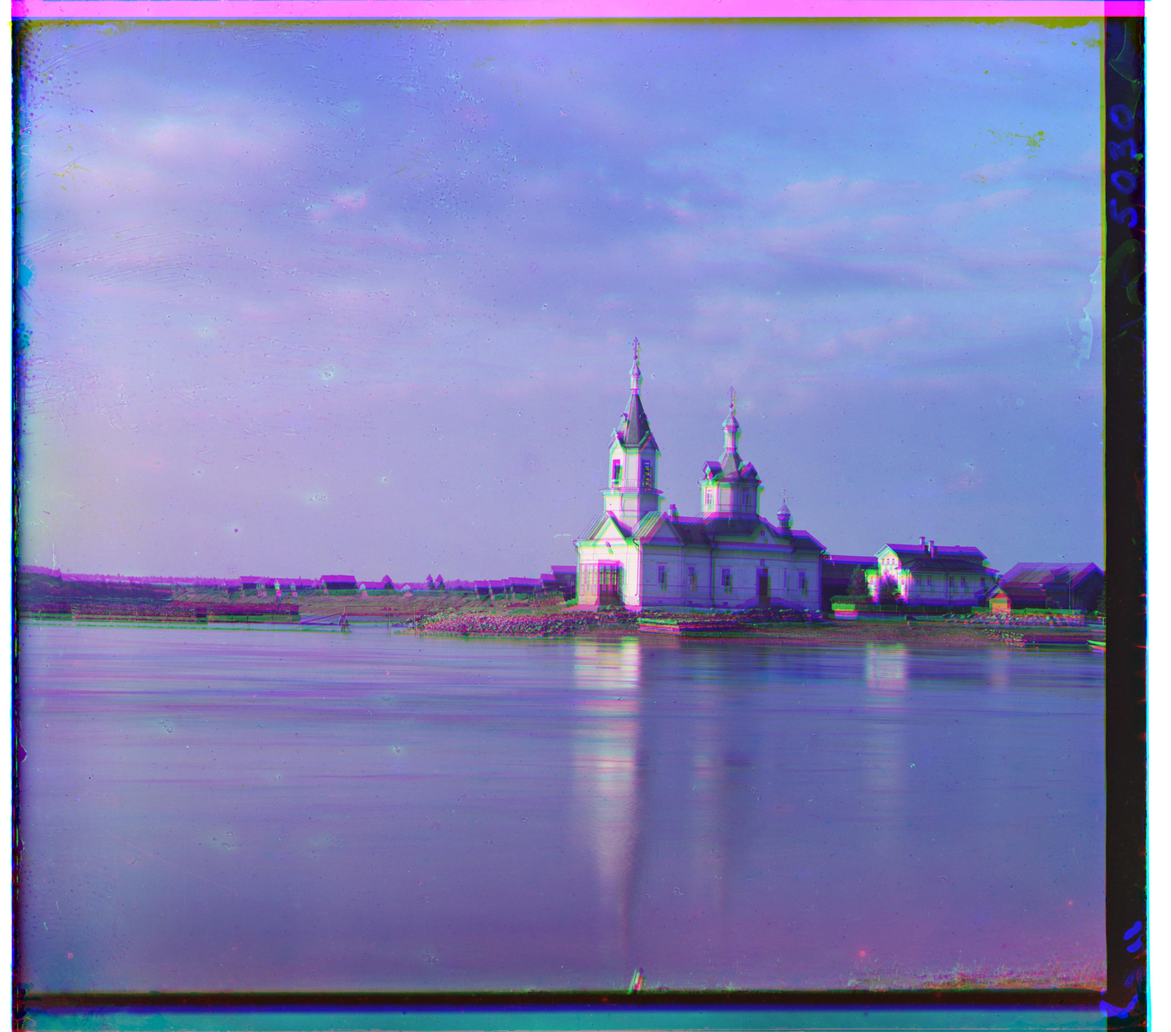
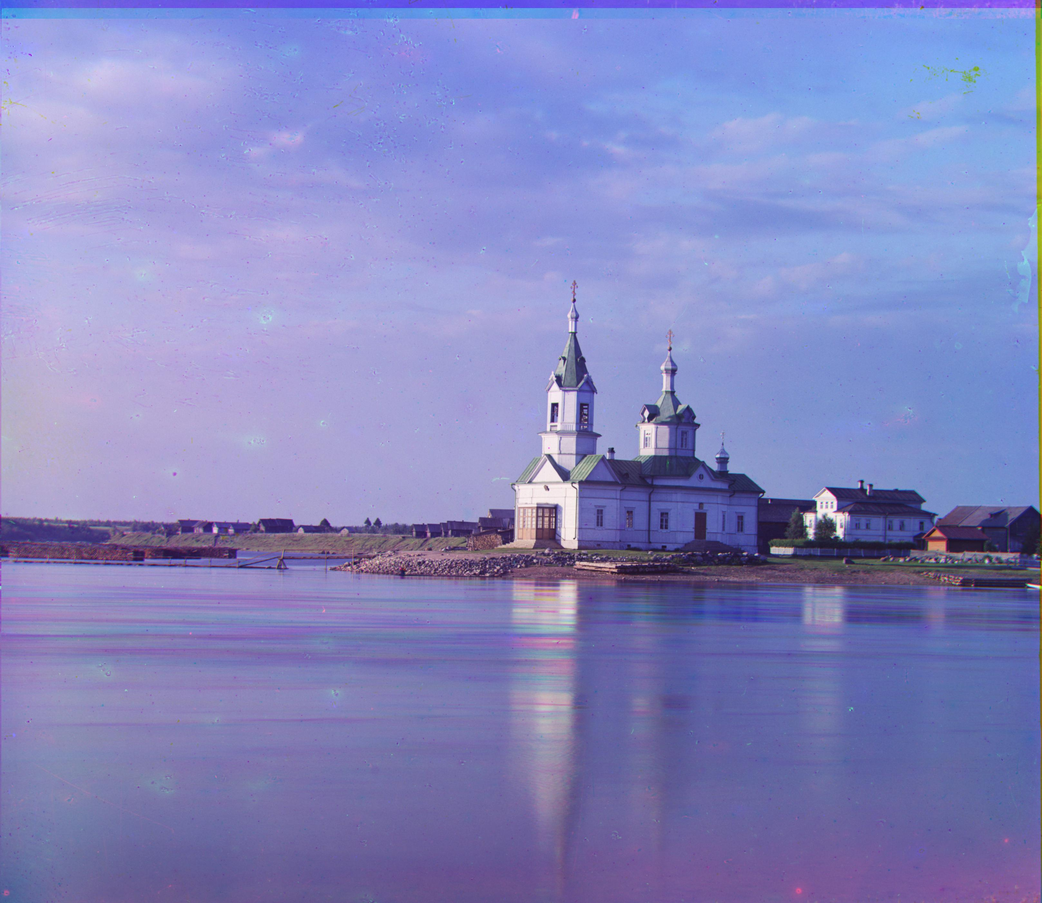
added fixed cropping

diff --git a/index.html b/index.html
@@ -71,8 +71,9 @@
   <p>
     For jpg files, which are lot smaller in file size, I've implemented an
     exhaustive algorithm to detect pixel offsets and align the three color channels
-    appropriately. The exhuastive algorithm would check in the range of [-15, 15] pixels,
-    and search for the largest Nomralized Correlation.
+    appropriately. Firstly, I would crop the image by a fixed value of 20px to cut the
+    black borders off. Then, the exhuastive algorithm would check in the range of
+    [-15, 15] pixels, and search for the largest Nomralized Correlation.
     I would first align green channel to blue channel and find
     the appropriate pixel offset of the green channel. Then, I would do the same for
     red channel to blue channel. Finally, I would stack all three channels into
@@ -83,15 +84,15 @@
   <div class="row">
     <div class="column">
       <img src="out/cathedral.jpg" alt="Cathedral" style="width:100%">
-      <p style="text-align: center">cathedral.jpg | G:(-1, 1), R:(-1, 7)</p>
+      <p style="text-align: center">cathedral.jpg | G: (2, 5), R: (3, 12)</p>
     </div>
     <div class="column">
       <img src="out/monastery.jpg" alt="Monastery" style="width:100%">
-      <p style="text-align: center">monastery.jpg | G:(0, -6), R:(1, 9)</p>
+      <p style="text-align: center">monastery.jpg | G: (2, -3), R: (2, 3)</p>
     </div>
     <div class="column">
       <img src="out/tobolsk.jpg" alt="tobolsk" style="width:100%">
-      <p style="text-align: center">tobolsk.jpg | G:(2, 3), R:(3, 6)</p>
+      <p style="text-align: center">tobolsk.jpg | G: (3, 3), R: (3, 6)</p>
     </div>
   </div>
 
@@ -100,63 +101,64 @@
     The downside of the exhaustive method is that it takes too much time to process
     large image files such as tiff files. To fasten the process, we must rescale the
     image to a smaller pixel margins, such that alignment can be processed at a
-    much faster rate. I've continuously rescaled the image by 1/3 per step
-    and proceed 4 times, which would result in 81th of the original image size. Then,
-    we would perform the exhaustive method on a smaller image, and check for
-    the range of [offset * 3 &#177; 2]. Then it will produce the correct offset.
+    much faster rate. Firstly, I've cropped the image with a fixed value of 200px
+    to remove the black borders. Then I've continuously rescaled the image by half per step
+    and proceed 5 times, which would result in 1/32 of the original image size. Then,
+    we would perform the exhaustive method on a smaller image, and come back to the greater
+    version to check for the range of [offset * 2 &#177; 1]. Then it will produce the correct offset.
     I have originally attempted halving the image for 5 steps, but the parameters I
-    mentioned produced a better image result. 
+    mentioned produced a better image result.
   </p>
   <div class="row">
     <div class="column">
       <img src="out/church.jpg" alt="Church" style="width:100%">
-      <p style="text-align: center; font-size: 15px;">church.tif | G: (-5, 0), R: (-6, 52)</p>
+      <p style="text-align: center; font-size: 15px;">church.tif | G: (4, 25), R: (-4, 58)</p>
     </div>
     <div class="column">
       <img src="out/emir.jpg" alt="Emir" style="width:100%">
-      <p style="text-align: center; font-size: 15px;">emir.tif | G: (7, -3), R: (17, 107)</p>
+      <p style="text-align: center; font-size: 15px;">emir.tif | G: (24, 49), R: (-511, 126)</p>
     </div>
     <div class="column">
       <img src="out/harvesters.jpg" alt="Harvesters" style="width:100%">
-      <p style="text-align: center; font-size: 15px;">harvesters.tif | G: (-3, 118), R: (-1, 95)</p>
+      <p style="text-align: center; font-size: 15px;">harvesters.tif | G: (16, 59), R: (13, 124)</p>
     </div>
   </div>
   <div class="row">
     <div class="column">
       <img src="out/icon.jpg" alt="Icon" style="width:100%">
-      <p style="text-align: center; font-size: 15px;">icon.tif | G: (16, 42), R: (22, 89)</p>
+      <p style="text-align: center; font-size: 15px;">icon.tif | G: (17, 40), R: (23, 89)</p>
     </div>
     <div class="column">
       <img src="out/lady.jpg" alt="Lady" style="width:100%">
-      <p style="text-align: center; font-size: 15px;">lady.tif | G: (-6, 57), R: (-17, 123)</p>
+      <p style="text-align: center; font-size: 15px;">lady.tif | G: (8, 47), R: (11, 113)</p>
     </div>
     <div class="column">
       <img src="out/melons.jpg" alt="Melons" style="width:100%">
-      <p style="text-align: center; font-size: 15px;">melons.tif | G: (4, 83), R: (7, 176)</p>
+      <p style="text-align: center; font-size: 15px;">melons.tif | G: (9, 82), R: (12, 178)</p>
     </div>
   </div>
   <div class="row">
     <div class="column">
       <img src="out/onion_church.jpg" alt="Onion Church" style="width:100%">
-      <p style="text-align: center; font-size: 15px;">onion_church.tif | G: (17, 55), R: (0, 108)</p>
+      <p style="text-align: center; font-size: 15px;">onion_church.tif | G: (26, 51), R: (36, 108)</p>
     </div>
     <div class="column">
       <img src="out/self_portrait.jpg" alt="Self Portrait" style="width:100%">
-      <p style="text-align: center; font-size: 15px;">self_portrait.tif | G: (-2, 50), R: (-5, 130)</p>
+      <p style="text-align: center; font-size: 15px;">self_portrait.tif | G: (28, 78), R: (36, 176)</p>
     </div>
     <div class="column">
       <img src="out/three_generations.jpg" alt="Three Generations" style="width:100%">
-      <p style="text-align: center; font-size: 15px;">three_generations.tif | G: (5, 52), R: (7, 108)</p>
+      <p style="text-align: center; font-size: 15px;">three_generations.tif | G: (14, 53), R: (10, 111)</p>
     </div>
   </div>
   <div class="row">
     <div class="column">
       <img src="out/train.jpg" alt="Train" style="width:100%">
-      <p style="text-align: center; font-size: 15px;">train.tif | G: (-7, 111), R: (1, 107)</p>
+      <p style="text-align: center; font-size: 15px;">train.tif | G: (5, 42), R: (31, 87)</p>
     </div>
     <div class="column">
       <img src="out/workshop.jpg" alt="Workshop" style="width:100%">
-      <p style="text-align: center; font-size: 15px;">workshop.tif | G: (-5, 53), R: (-16, 69)</p>
+      <p style="text-align: center; font-size: 15px;">workshop.tif | G: (0, 52), R: (-12, 104)</p>
     </div>
   </div>
 </body>
